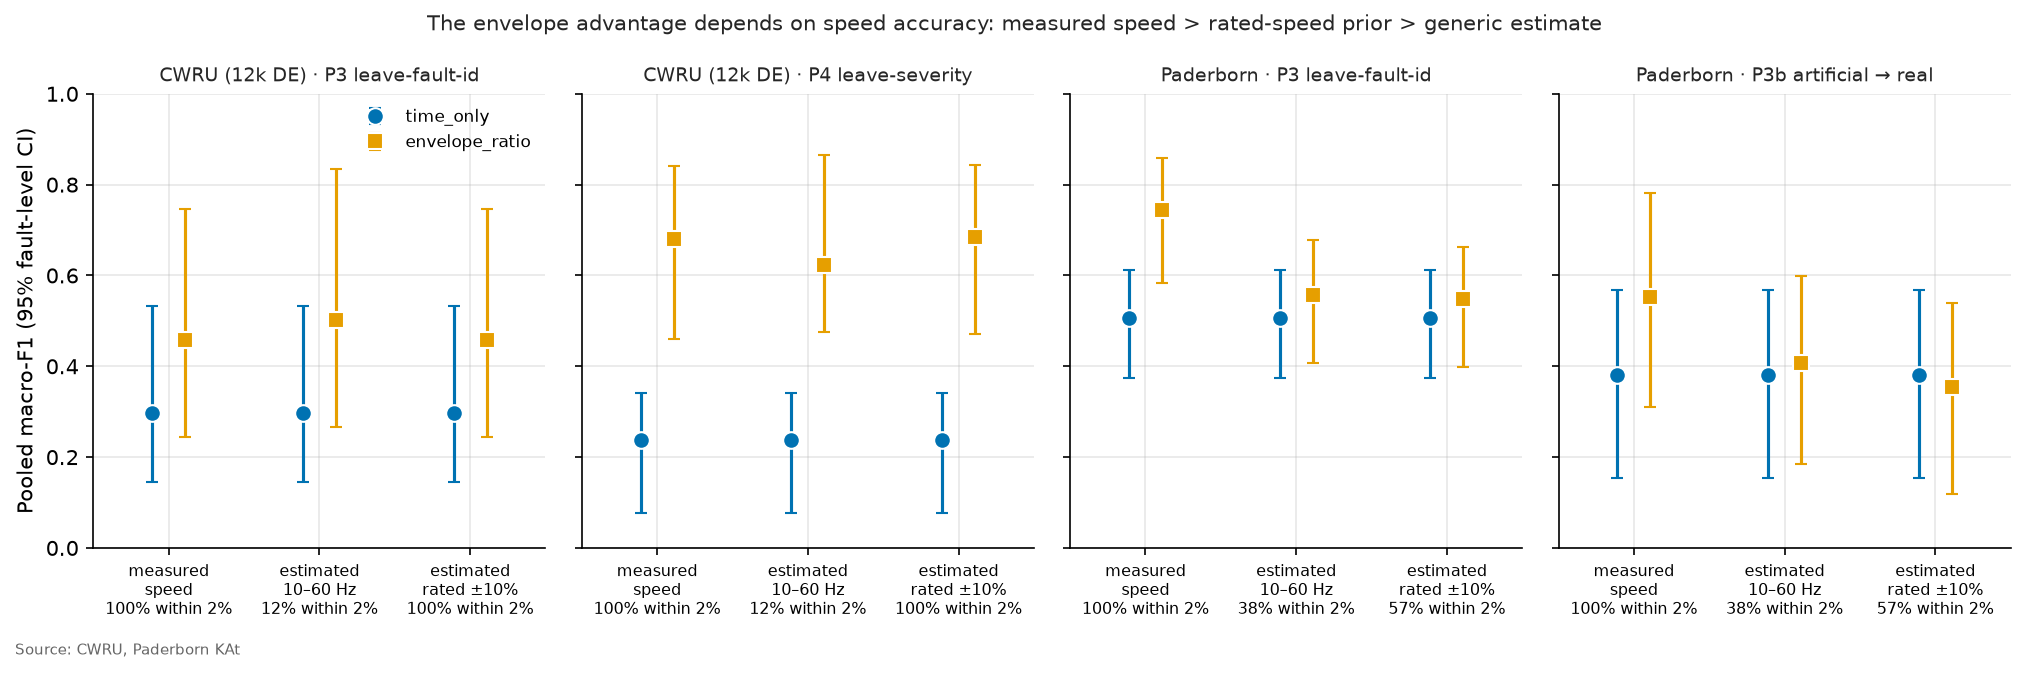
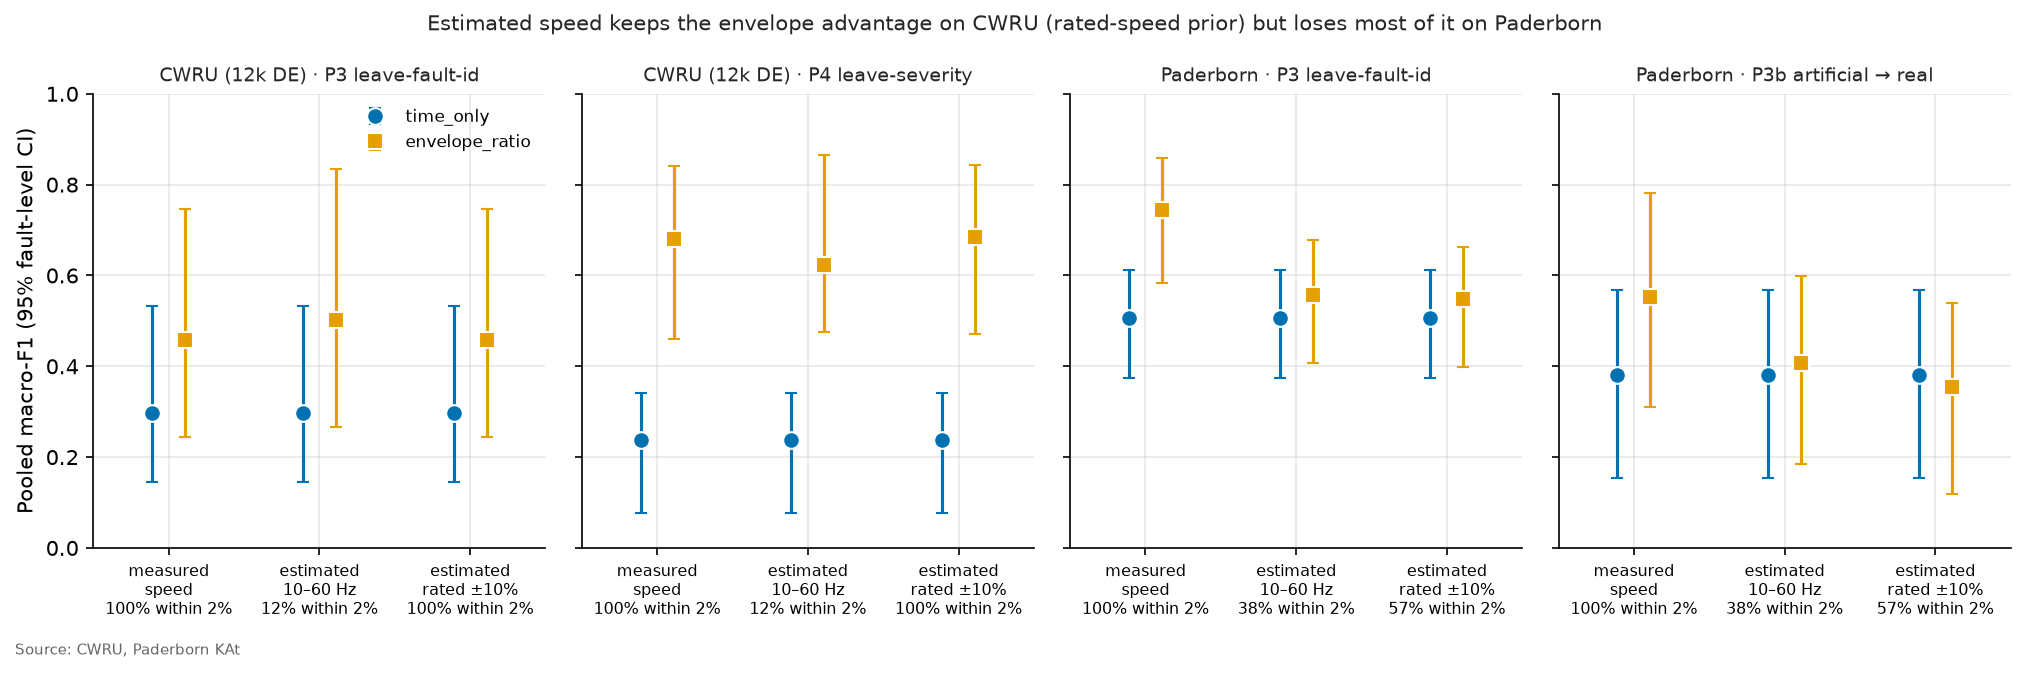
Speed-ablation figure: title matches the re-measured estimator results

Changed region(s): [[0.2178, 0.0, 0.7778, 0.0624]]

diff --git a/src/vibedge/figures_real.py b/src/vibedge/figures_real.py
@@ -392,7 +392,7 @@ def fig_speed_ablation() -> Path | None:
     axes[0][0].set_ylabel("Pooled macro-F1 (95% fault-level CI)")
     axes[0][0].set_ylim(0, 1)
     axes[0][0].legend(fontsize=8, frameon=False, loc="upper right")
-    fig.suptitle("The envelope advantage depends on speed accuracy: measured speed > rated-speed prior > generic estimate",
+    fig.suptitle("Estimated speed keeps the envelope advantage on CWRU (rated-speed prior) but loses most of it on Paderborn",
                  fontsize=10, color=INK)
     return save_figure(fig, OUT, "speed_ablation", data, source="CWRU, Paderborn KAt")
 
